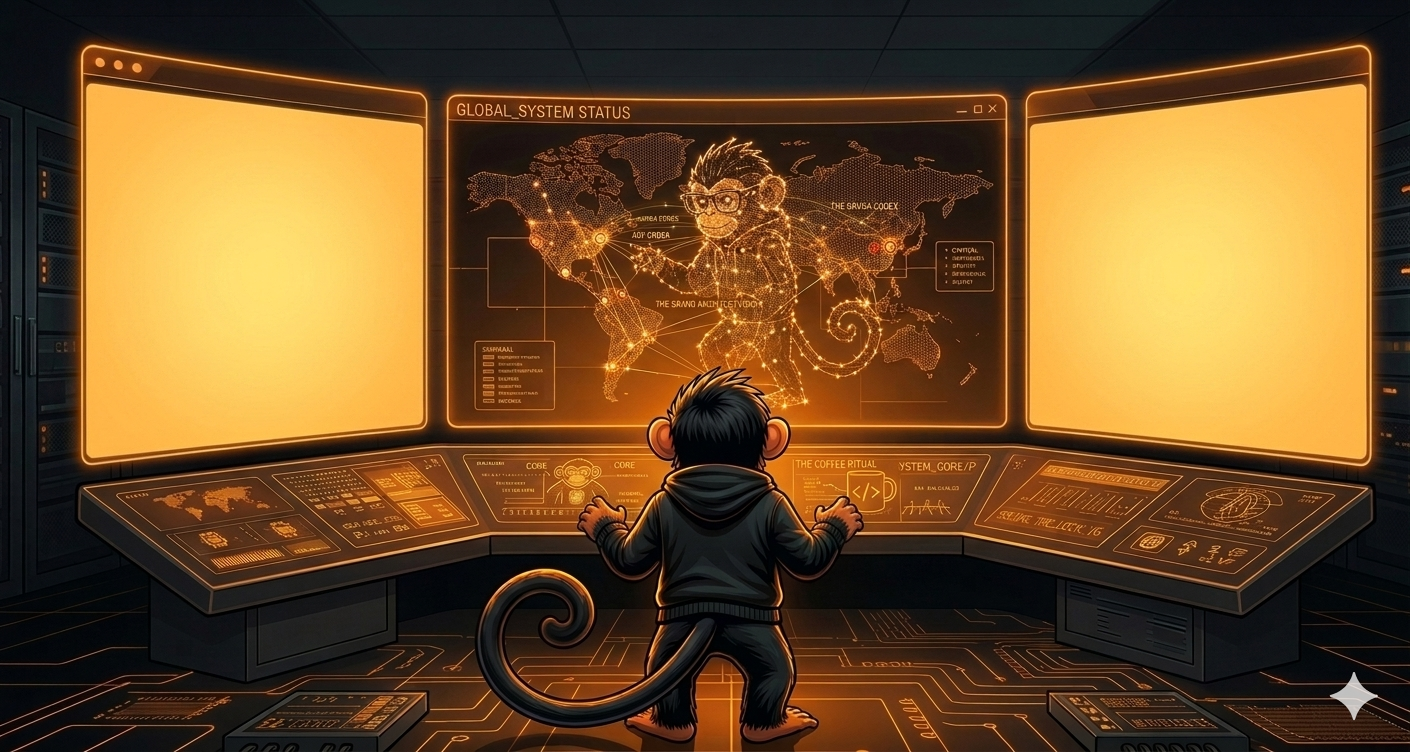
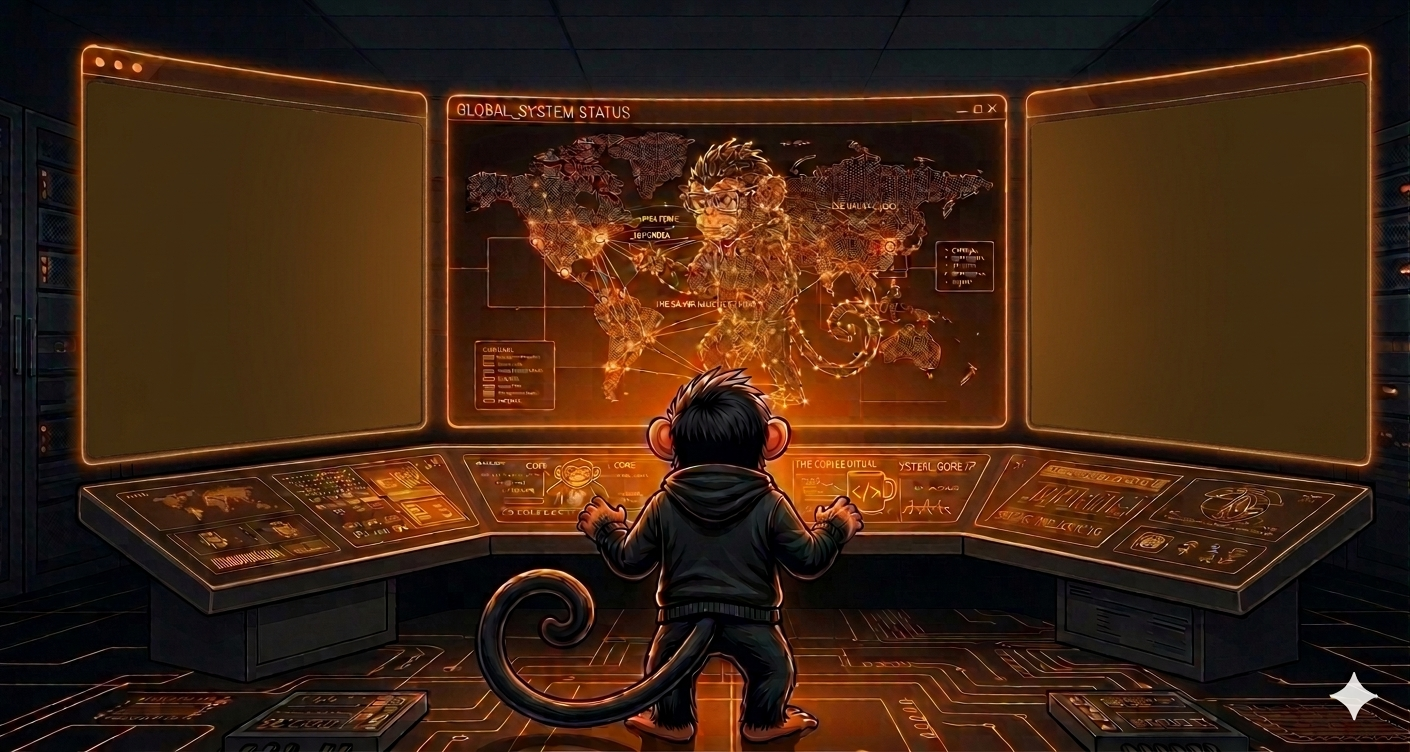
feat: update ClientsSection component and styles for improved layout and responsiveness

diff --git a/src/sections/ClientsSection.tsx b/src/sections/ClientsSection.tsx
@@ -3,22 +3,11 @@ import type { CSSProperties } from 'react'
 import { clientLogos } from '../data/siteContent'
 
 const monkeyConstellation = new URL('../assets/monkey-teladupla.png', import.meta.url).href
-const monkeyOff = new URL('../assets/monkey-off.png', import.meta.url).href
+const logoStepDuration = 1600
 
 export function ClientsSection() {
-  const [isOpen, setIsOpen] = useState(false)
   const [focusedLogo, setFocusedLogo] = useState<number | null>(null)
   const [sequenceKey, setSequenceKey] = useState(0)
-
-  function openConstellation() {
-    setIsOpen(true)
-    setSequenceKey((key) => key + 1)
-  }
-
-  function closeConstellation() {
-    setIsOpen(false)
-    setFocusedLogo(null)
-  }
 
   function resetLogoSequence() {
     setFocusedLogo(null)
@@ -51,23 +40,12 @@ export function ClientsSection() {
 
   return (
     <section className="clients-section reveal" id="clientes">
+      <h2 className="clients-title">Nossos Clientes</h2>
       <div
-        className={`client-logo-showcase${isOpen ? ' is-open' : ''}${focusedLogo !== null ? ' has-focused-logo' : ''}`}
-        style={{ '--logo-sequence-duration': `${Math.ceil(clientLogos.length / 2) * 900}ms` } as CSSProperties}
-        onMouseLeave={closeConstellation}
+        className={`client-logo-showcase is-open${focusedLogo !== null ? ' has-focused-logo' : ''}`}
+        style={{ '--logo-sequence-duration': `${Math.ceil(clientLogos.length / 2) * logoStepDuration}ms` } as CSSProperties}
+        onMouseLeave={resetLogoSequence}
       >
-        <img
-          className="client-off-scene"
-          src={monkeyOff}
-          alt=""
-          aria-hidden="true"
-        />
-        <img
-          className="client-off-focus"
-          src={monkeyOff}
-          alt=""
-          aria-hidden="true"
-        />
         <img
           className="client-constellation-scene"
           src={monkeyConstellation}
@@ -79,7 +57,7 @@ export function ClientsSection() {
             <div
               className={`client-logo-card${focusedLogo === index ? ' is-focused' : ''}`}
               key={image}
-              style={{ '--logo-delay': `${Math.floor(index / 2) * 900}ms` } as CSSProperties}
+              style={{ '--logo-delay': `${Math.floor(index / 2) * logoStepDuration}ms` } as CSSProperties}
               tabIndex={0}
               aria-label={`Destacar ${label}`}
               onMouseEnter={() => setFocusedLogo(index)}
@@ -105,20 +83,12 @@ export function ClientsSection() {
                   src={image}
                   alt=""
                   key={`${label}-${image}`}
-                  style={{ '--logo-delay': `${Math.floor(index / 2) * 900}ms` } as CSSProperties}
+                  style={{ '--logo-delay': `${Math.floor(index / 2) * logoStepDuration}ms` } as CSSProperties}
                 />
               )
             })}
           </div>
         ))}
-        {!isOpen && (
-          <button
-            className="client-open-trigger"
-            type="button"
-            aria-label="Revelar constelação de clientes"
-            onClick={openConstellation}
-          />
-        )}
       </div>
     </section>
   )

diff --git a/src/styles/sections/clients.css b/src/styles/sections/clients.css
@@ -1,6 +1,7 @@
 .clients-section {
   position: relative;
   display: flex;
+  flex-direction: column;
   align-items: center;
   justify-content: center;
   margin: 8px 0 -42px;
@@ -12,6 +13,16 @@
   width: min(100%, 100vw);
   max-width: none;
   overflow: visible;
+}
+
+.clients-title {
+  position: relative;
+  z-index: 2;
+  margin: 0 0 18px;
+  color: var(--text-strong);
+  font-size: clamp(2rem, 4vw, 3.2rem);
+  line-height: 1;
+  text-align: center;
 }
 
 .client-logo-showcase {
@@ -440,19 +451,19 @@
   transform: translateY(14px) perspective(520px) rotateY(calc(var(--feature-logo-depth) * var(--feature-logo-depth-direction))) scale(0.76) rotate(var(--feature-logo-tilt));
   transform-origin: center;
   transition:
-    opacity 180ms ease,
-    transform 240ms ease;
+    opacity 360ms ease,
+    transform 560ms ease;
 }
 
 .client-feature-logo--fit-icon {
-  --feature-logo-height: calc(46% + 12px);
-  --feature-logo-width: min(calc(48% + 20px), 142px);
+  --feature-logo-height: calc(46% + 22px);
+  --feature-logo-width: min(calc(48% + 30px), 152px);
   --feature-logo-y: 43%;
 }
 
 .client-feature-logo--fit-compact {
-  --feature-logo-height: calc(48% + 12px);
-  --feature-logo-width: min(calc(50% + 20px), 150px);
+  --feature-logo-height: calc(48% + 22px);
+  --feature-logo-width: min(calc(50% + 30px), 160px);
   --feature-logo-y: 43%;
   --feature-logo-depth: 12deg;
 }
@@ -474,14 +485,14 @@
 }
 
 .client-feature-logo--portal-idea {
-  --feature-logo-height: calc(48% + 12px);
-  --feature-logo-width: min(calc(50% + 18px), 146px);
+  --feature-logo-height: calc(48% + 22px);
+  --feature-logo-width: min(calc(50% + 28px), 156px);
   --feature-logo-y: 43%;
 }
 
 .client-feature-logo--pd-solucoes {
-  --feature-logo-height: calc(44% + 12px);
-  --feature-logo-width: min(calc(50% + 18px), 148px);
+  --feature-logo-height: calc(44% + 22px);
+  --feature-logo-width: min(calc(50% + 28px), 158px);
   --feature-logo-y: 44%;
 }
 
@@ -622,8 +633,8 @@
 
   .client-feature-logo--fit-icon,
   .client-feature-logo--fit-compact {
-    --feature-logo-height: calc(46% + 10px);
-    --feature-logo-width: calc(50% + 10px);
+    --feature-logo-height: calc(46% + 20px);
+    --feature-logo-width: calc(50% + 20px);
     --feature-logo-y: 43%;
   }
 
@@ -640,14 +651,14 @@
   }
 
   .client-feature-logo--portal-idea {
-    --feature-logo-height: calc(48% + 10px);
-    --feature-logo-width: calc(52% + 10px);
+    --feature-logo-height: calc(48% + 20px);
+    --feature-logo-width: calc(52% + 20px);
     --feature-logo-y: 43%;
   }
 
   .client-feature-logo--pd-solucoes {
-    --feature-logo-height: calc(44% + 10px);
-    --feature-logo-width: calc(50% + 10px);
+    --feature-logo-height: calc(44% + 20px);
+    --feature-logo-width: calc(50% + 20px);
     --feature-logo-y: 43%;
   }
 